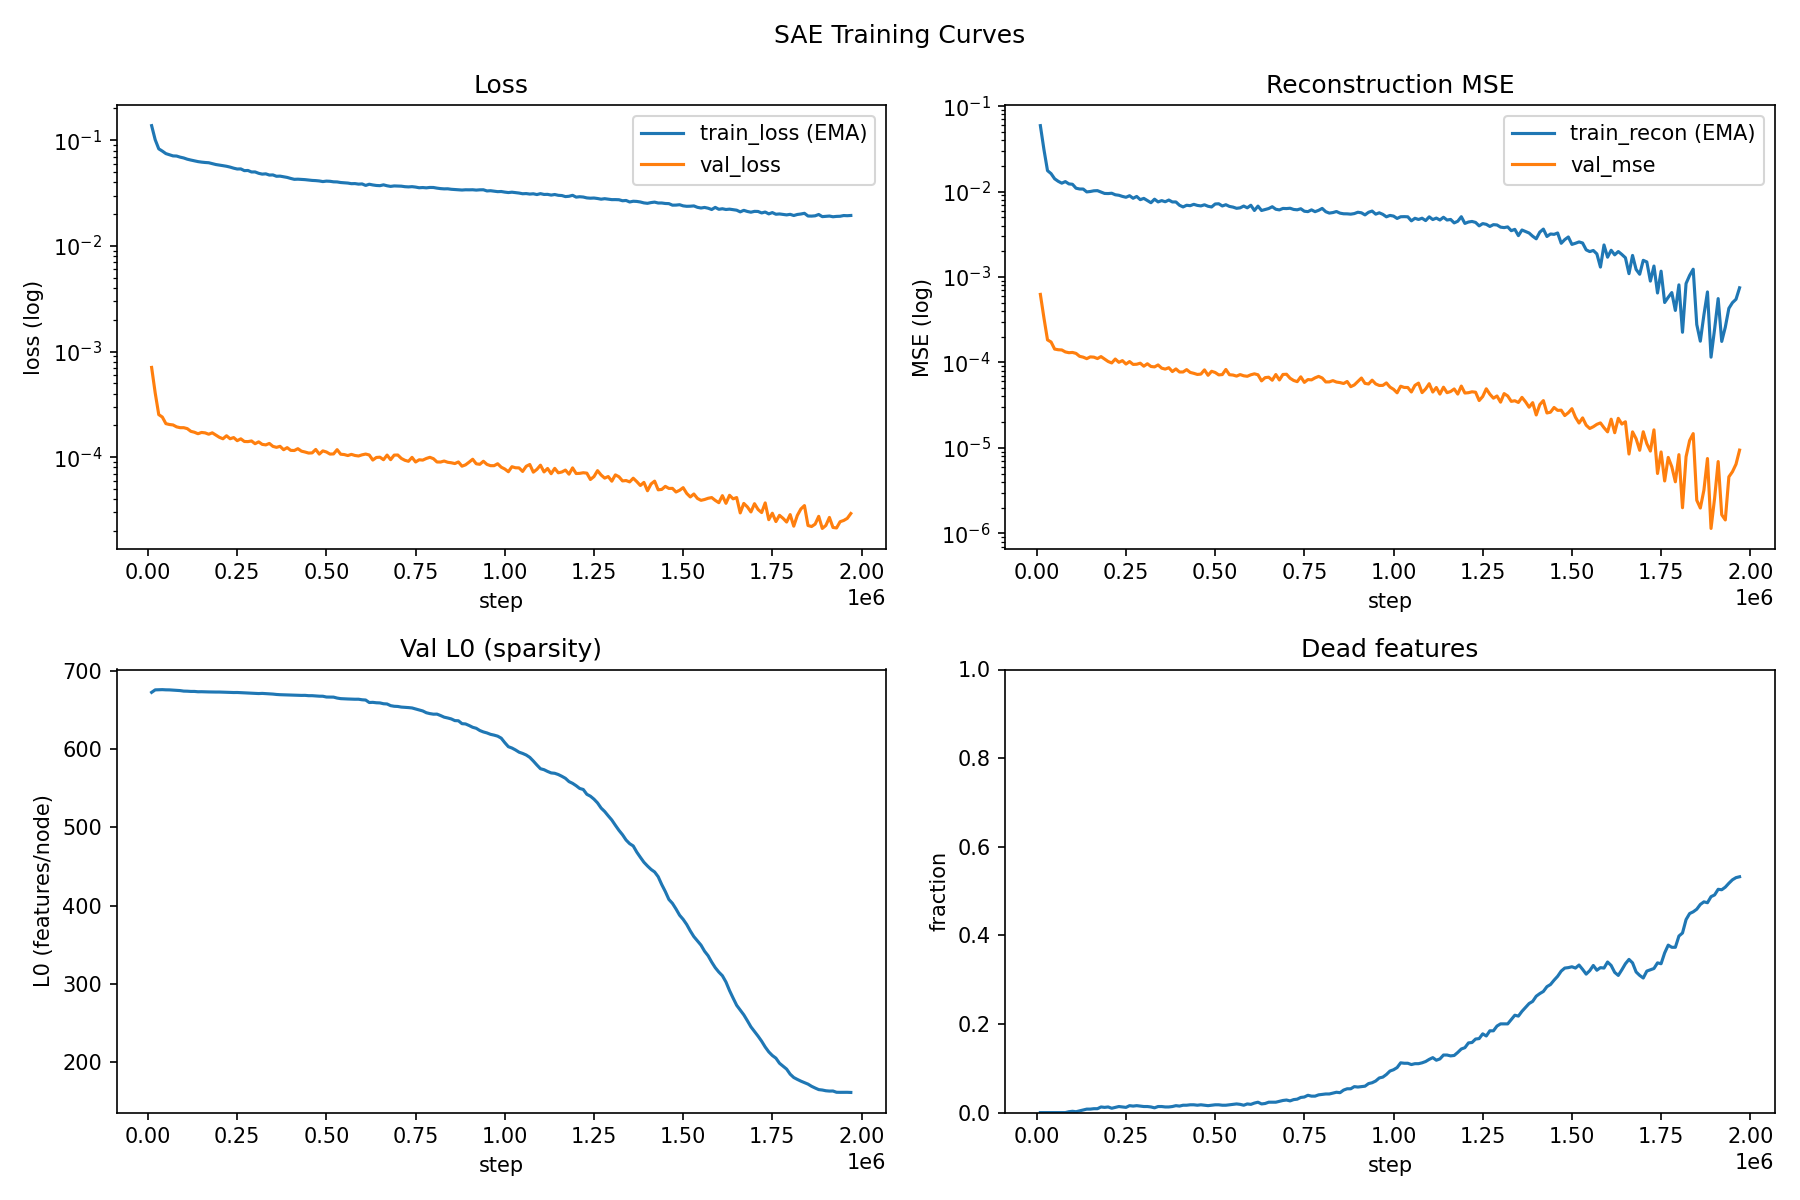
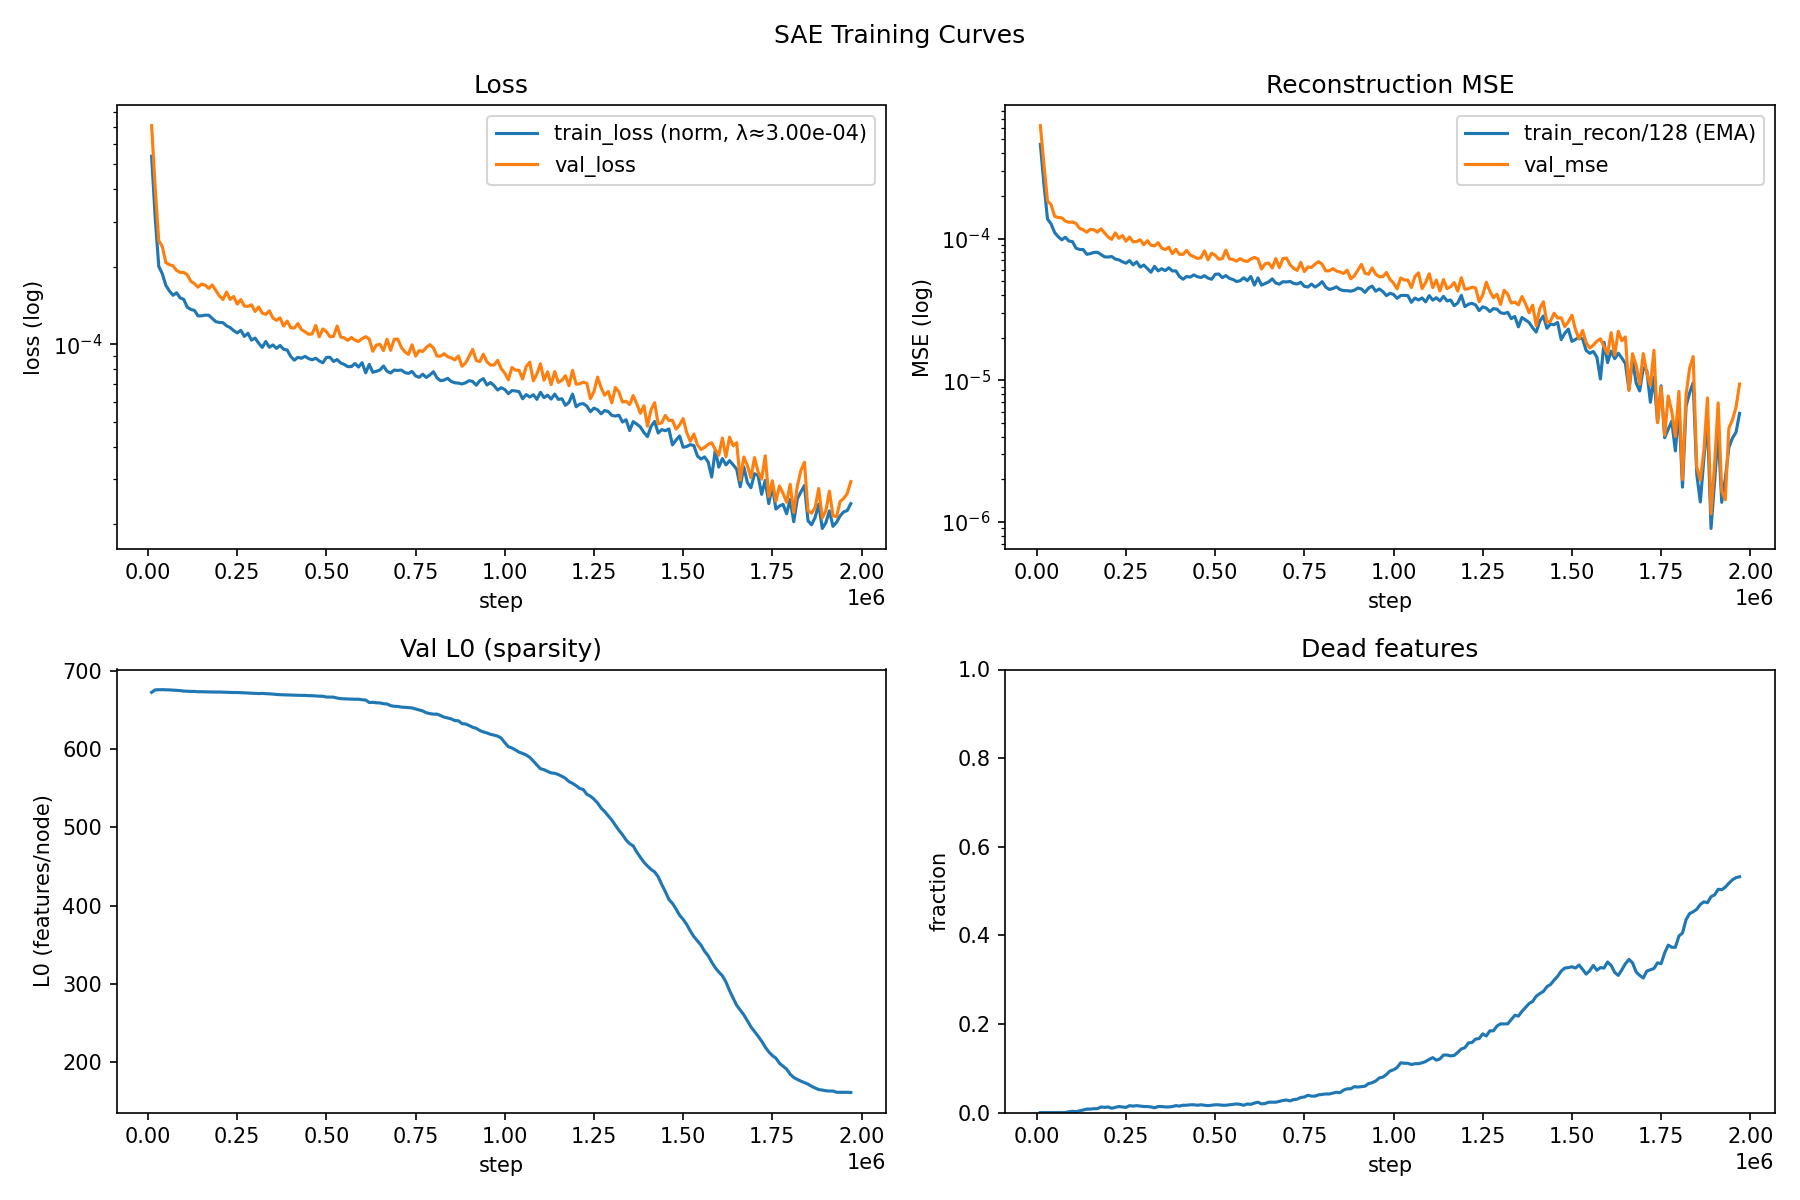
replotted training curves on correct scale

diff --git a/sae_interp/replot_training_curves.py b/sae_interp/replot_training_curves.py
@@ -1,0 +1,148 @@
+"""
+Regenerate training_curves.png for all checkpoints_* directories
+from their metrics.csv, with train and val MSE on the same scale.
+
+The bug: train_recon/train_mse was logged as sum over d_in (128), while
+val_mse uses F.mse_loss (mean over all elements). Dividing by d_in=128
+makes them comparable.
+"""
+
+import csv
+import os
+import glob
+
+import matplotlib
+matplotlib.use("Agg")
+import matplotlib.pyplot as plt
+
+D_IN  = 128
+D_HID = D_IN * 8  # expansion=8
+
+
+def save_plots_rand(log: list[dict], ckpt_dir: str):
+    steps       = [r["step"]               for r in log]
+    train_recon = [r["train_recon"] / D_IN for r in log]  # sum→mean over d_in
+    val_loss    = [r["val_loss"]           for r in log]
+    val_mse     = [r["val_mse"]            for r in log]
+    val_l0      = [r["val_l0"]             for r in log]
+    dead_frac   = [r["dead_frac"]          for r in log]
+
+    # Infer lam from first row with non-zero L1: lam = (train_loss - train_recon) / train_L1
+    lam = None
+    for r in log:
+        if r["train_L1"] > 0:
+            lam = (r["train_loss"] - r["train_recon"]) / r["train_L1"]
+            break
+    if lam is not None:
+        # Reconstruct normalized loss: recon/d_in + lam * L1/d_hid
+        train_loss = [r["train_recon"] / D_IN + lam * r["train_L1"] / D_HID for r in log]
+        loss_label = f"train_loss (norm, λ≈{lam:.2e})"
+    else:
+        train_loss = [r["train_loss"] for r in log]
+        loss_label = "train_loss (raw)"
+
+    fig, axes = plt.subplots(2, 2, figsize=(12, 8))
+    fig.suptitle("SAE Training Curves")
+
+    ax = axes[0, 0]
+    ax.semilogy(steps, train_loss, label=loss_label)
+    ax.semilogy(steps, val_loss,   label="val_loss")
+    ax.set_xlabel("step"); ax.set_ylabel("loss (log)"); ax.set_title("Loss")
+    ax.legend()
+
+    ax = axes[0, 1]
+    ax.semilogy(steps, train_recon, label="train_recon/128 (EMA)")
+    ax.semilogy(steps, val_mse,     label="val_mse")
+    ax.set_xlabel("step"); ax.set_ylabel("MSE (log)"); ax.set_title("Reconstruction MSE")
+    ax.legend()
+
+    ax = axes[1, 0]
+    ax.plot(steps, val_l0)
+    ax.set_xlabel("step"); ax.set_ylabel("L0 (features/node)"); ax.set_title("Val L0 (sparsity)")
+
+    ax = axes[1, 1]
+    ax.plot(steps, dead_frac)
+    ax.set_xlabel("step"); ax.set_ylabel("fraction"); ax.set_title("Dead features")
+    ax.set_ylim(0, 1)
+
+    plt.tight_layout()
+    path = os.path.join(ckpt_dir, "training_curves.png")
+    plt.savefig(path, dpi=150)
+    plt.close(fig)
+    print(f"  -> {path}")
+
+
+def save_plots_topk(log: list[dict], ckpt_dir: str):
+    steps      = [r["step"]                   for r in log]
+    train_mse  = [r["train_mse"] / D_IN       for r in log]  # normalize sum→mean
+    val_mse    = [r["val_mse"]                for r in log]
+    val_l0     = [r["val_l0"]                 for r in log]
+    dead_frac  = [r["dead_frac"]              for r in log]
+    k = log[0]["k"]
+
+    fig, axes = plt.subplots(1, 3, figsize=(14, 4))
+    fig.suptitle(f"Top-K SAE Training (K={k})")
+
+    ax = axes[0]
+    ax.semilogy(steps, train_mse, label="train_mse/128 (EMA)")
+    ax.semilogy(steps, val_mse,   label="val_mse")
+    ax.set_xlabel("step"); ax.set_ylabel("MSE (log)"); ax.set_title("Reconstruction MSE")
+    ax.legend()
+
+    ax = axes[1]
+    ax.plot(steps, val_l0)
+    ax.axhline(k, color="gray", linestyle="--", label=f"K={k}")
+    ax.set_xlabel("step"); ax.set_ylabel("L0"); ax.set_title("Val L0 (should converge to K)")
+    ax.legend()
+
+    ax = axes[2]
+    ax.plot(steps, dead_frac)
+    ax.set_xlabel("step"); ax.set_ylabel("fraction"); ax.set_title("Dead features")
+    ax.set_ylim(0, 1)
+
+    plt.tight_layout()
+    path = os.path.join(ckpt_dir, "training_curves.png")
+    plt.savefig(path, dpi=150)
+    plt.close(fig)
+    print(f"  -> {path}")
+
+
+def load_csv(path: str) -> list[dict]:
+    with open(path, newline="") as f:
+        reader = csv.DictReader(f)
+        rows = []
+        for row in reader:
+            rows.append({k: (int(v) if k in ("step", "epoch") else
+                             (int(v) if k == "k" else float(v)))
+                         for k, v in row.items()})
+    return rows
+
+
+def main():
+    script_dir = os.path.dirname(os.path.abspath(__file__))
+    ckpt_dirs = sorted(glob.glob(os.path.join(script_dir, "checkpoints_*")))
+
+    if not ckpt_dirs:
+        print("No checkpoints_* directories found.")
+        return
+
+    for ckpt_dir in ckpt_dirs:
+        csv_path = os.path.join(ckpt_dir, "metrics.csv")
+        if not os.path.exists(csv_path):
+            print(f"Skipping {ckpt_dir} (no metrics.csv)")
+            continue
+
+        log = load_csv(csv_path)
+        if not log:
+            print(f"Skipping {ckpt_dir} (empty metrics.csv)")
+            continue
+
+        print(f"Replotting {os.path.basename(ckpt_dir)} ({len(log)} rows)...")
+        if "train_recon" in log[0]:
+            save_plots_rand(log, ckpt_dir)
+        else:
+            save_plots_topk(log, ckpt_dir)
+
+
+if __name__ == "__main__":
+    main()
